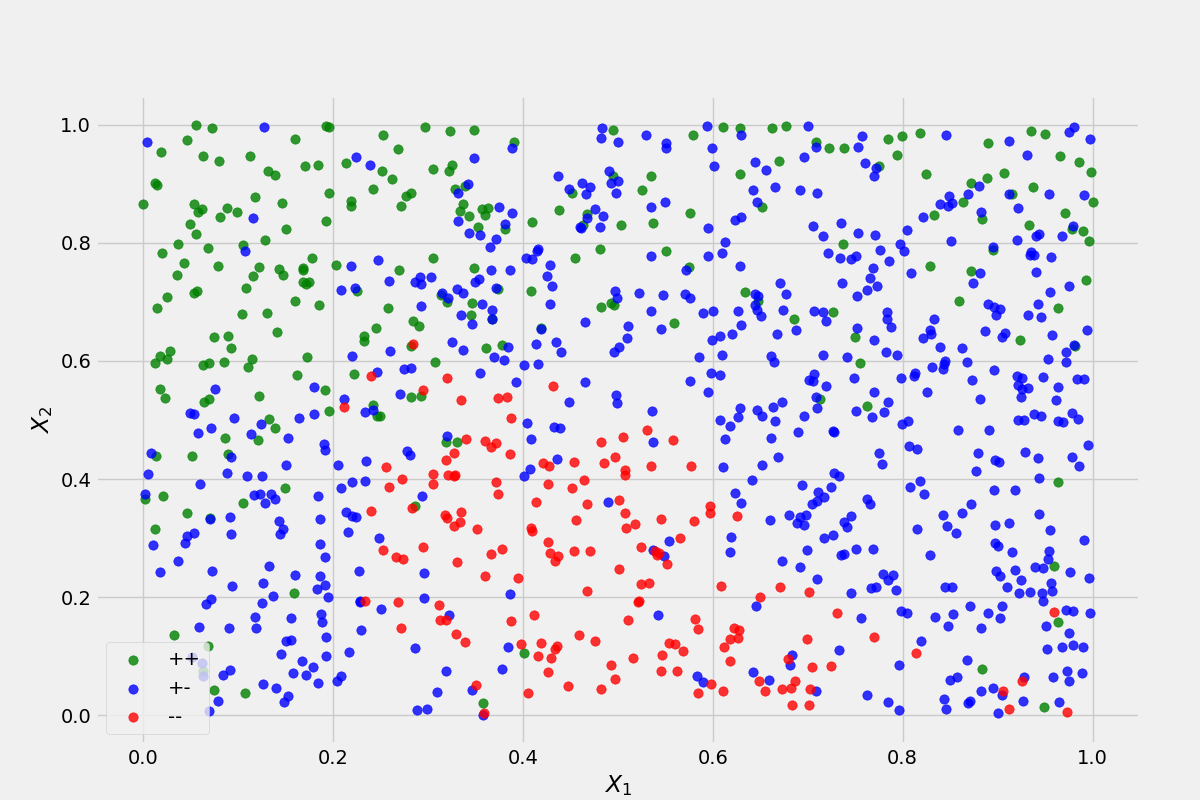
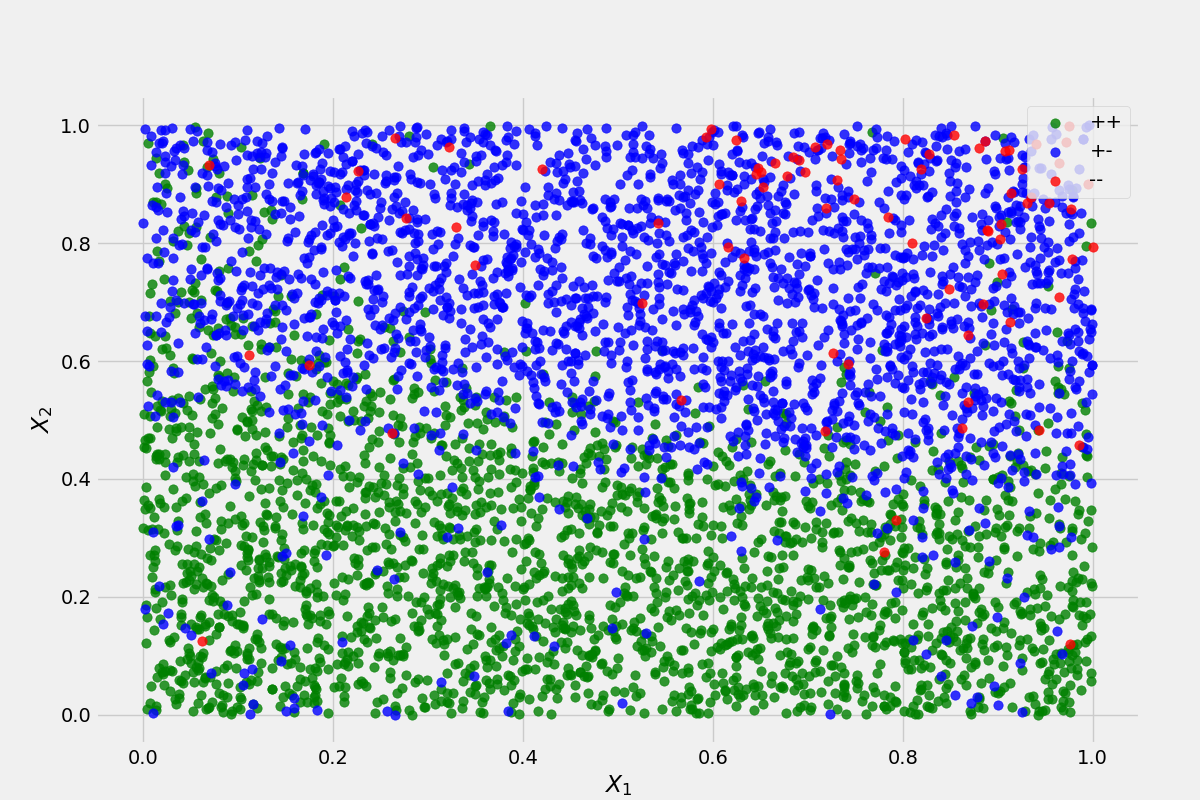
Fix linear tradeoff

diff --git a/data/dataset.py b/data/dataset.py
@@ -1,9 +1,10 @@
 import pandas as pd
 import numpy as np
 import seaborn as sns
+from scipy import stats
 from matplotlib import cm
 import matplotlib.pyplot as plt
-from matplotlib.colors import ListedColormap
+from matplotlib.colors import ListedColormap, BoundaryNorm
 from sklearn.preprocessing import OneHotEncoder
 from sklearn.model_selection import StratifiedKFold
 
@@ -70,22 +71,14 @@ class Dataset:
         self.mm_mask += (self.tao[:, 0] < 0) & (self.tao[:, 1] > 0)
         self.nn_mask = (self.tao[:, 0] < 0) & (self.tao[:, 1] < 0)
 
-        pp = np.where(self.pp_mask, 1, 0)
-        mm = np.where(self.mm_mask, 2, 0)
-        nn = np.where(self.nn_mask, 3, 0)
-        self.clusters = pp + mm + nn
-
-        top = cm.get_cmap('Greens', 128)
-        mid = cm.get_cmap('Blues', 128)
-        bottom = cm.get_cmap('Reds', 128)
-
-        newcolors = np.vstack((
-                            bottom(np.linspace(0, 1, 128)),
-                            mid(np.linspace(0, 1, 128)),
-                            top(np.linspace(0, 1, 128)),
-                            ))
-        self.cmap = ListedColormap(newcolors, name='OrangeBlue')
+        # pp = np.where(self.pp_mask, 1, 0)
+        # mm = np.where(self.mm_mask, 2, 0)
+        # nn = np.where(self.nn_mask, 3, 0)
+        # self.clusters = pp + mm + nn
+        self.clusters = self.get_hex_clusters(values=self.tao)
+        
         self.cmap = 'RdYlGn'
+        self.norm = BoundaryNorm(np.arange(0.5, 4, 1), plt.cm.get_cmap(self.cmap).N)
 
     def split(self, n_splits=5) -> List[Fold]:
         # create quantization
@@ -109,13 +102,28 @@ class Dataset:
         self.tradeoff = TradeoffEnum[self.tradeoff_type].value()
         return self.tradeoff.create_Y(self.X, self.n_responses)
 
+    def hexbin_truncate(self, x):
+        return stats.mode(x)[0].item()
+
+    def get_hex_clusters(self, values):
+        pp_mask = (values[:, 0] > 0) & (values[:, 1] > 0)
+        mm_mask = (values[:, 0] > 0) & (values[:, 1] < 0)
+        mm_mask += (values[:, 0] < 0) & (values[:, 1] > 0)
+        nn_mask = (values[:, 0] < 0) & (values[:, 1] < 0)
+
+        pp = np.where(pp_mask, 3, 0)
+        mm = np.where(mm_mask, 2, 0)
+        nn = np.where(nn_mask, 1, 0)
+
+        return pp + mm + nn
+
     def plot_effects(self, save_filename=None):
         alpha=0.2
         nrows = self.n_responses + 1
         ncols = 2
         fig, axs = plt.subplots(nrows=nrows, ncols=ncols, figsize=(12, 8))
         for i in range(nrows):
-            taos = []
+            hex_taos = []
             for j in range(ncols):
                 if i == nrows-1:
                     im = axs[i, j].hexbin(x=self.X[:, 0], 
@@ -136,13 +144,13 @@ class Dataset:
                     axs[i, j].set_ylabel(r'$X_2$')
                     fig.colorbar(im, ax=axs[i, j], label=fr'$\tau_{j}$')
                     hex_values = im.get_array().reshape(-1, 1)
-                    taos.append(hex_values)
+                    hex_taos.append(hex_values)
                     offsets = im.get_offsets()
                 else:
                     # sns.regplot(x=self.X[:, i], y=self.Y[:, j], ax=axs[i, j], scatter=False, label=f'Y_{j}_0')
                     # sns.regplot(x=self.X[:, i], y=self.Y[:, j+1], ax=axs[i, j], scatter=False, label=f'Y_{j}_1')
-                    axs[i, j].scatter(self.X[:, i], self.Y[:, j], alpha=alpha, label=fr'$Y_{j}^0$')
-                    axs[i, j].scatter(self.X[:, i], self.Y[:, j+1], alpha=alpha, label=fr'$Y_{j}^1$')
+                    axs[i, j].scatter(self.X[:, i], self.Y[:, 2*j], alpha=alpha, label=fr'$Y_{j}^0$')
+                    axs[i, j].scatter(self.X[:, i], self.Y[:, 2*j+1], alpha=alpha, label=fr'$Y_{j}^1$')
                     axs[i, j].set_xlabel(fr'$X_{i+1}$')
                     axs[i, j].set_ylabel(fr'$Y_{j}$')
                     axs[i, j].legend()
@@ -151,8 +159,8 @@ class Dataset:
 
         plt.savefig(f'{save_filename}.png')
     
+        # scatter clusters
         plt.figure(figsize=(12, 8))
-
         plt.scatter(self.X[:, 0][self.pp_mask], self.X[:, 1][self.pp_mask], s=45, alpha=0.8, c='g', label='++')
         plt.scatter(self.X[:, 0][self.mm_mask], self.X[:, 1][self.mm_mask], s=45, alpha=0.8, c='b', label='+-')
         plt.scatter(self.X[:, 0][self.nn_mask], self.X[:, 1][self.nn_mask], s=45, alpha=0.8, c='r', label='--')
@@ -161,18 +169,21 @@ class Dataset:
         plt.legend()
         plt.savefig(f'{save_filename}_clusters.png')
 
-    # def plot_clusters(self):
-    #     for j in range(0, ncols+1, 2):
-    #         tau = self.Y[:, j+1]-self.Y[:, j]
-    #     im = axs[i, axj].hexbin(x=self.X[:, 0], 
-    #                         y=self.X[:, 1], 
-    #                         C=tau, 
-    #                         gridsize=12, 
-    #                         cmap='coolwarm',
-    #                         vmin=tau.min(), 
-    #                         vmax=tau.max(), 
-    #                         clim=(tau.min(), tau.max())
-    #     )
+        # hexbin clusters
+        plt.figure(figsize=(12, 8))
+        plt.hexbin(x=offsets[:, 0],
+                    y=offsets[:, 1],
+                    # C=self.clusters,
+                    C=self.get_hex_clusters(values=np.concatenate(hex_taos, axis=1)),
+                    cmap=self.cmap,
+                    norm=self.norm,
+                    # reduce_C_function=self.hexbin_truncate,
+                    gridsize=12
+        )
+        cbar = plt.colorbar(ticks=np.arange(1, 4, 1))
+        cbar.ax.set_yticklabels(['--', '+-', '++'])
+        plt.savefig(f'{save_filename}_hexclusters.png')
+
 
 if __name__ == "__main__":
     dataset = Dataset(n_rows=5000, 

diff --git a/tradeoffs/linear.py b/tradeoffs/linear.py
@@ -14,21 +14,18 @@ class LinearTradeoff(Tradeoff):
         for x in X[:, :2].T:
             mu *= self.linear(x)
         
-        mu_0_0 = -mu + 0.7
-        mu_0_1 = mu - 0.7
-        self.mus += [mu_0_0, mu_0_1]
+        mu_0_0 = -mu + 0.3
+        mu_0_1 = mu - 0.3
         Y_0_0 = (mu_0_0 + np.random.normal(0, 0.1, X.shape[0])).reshape(-1, 1)
         Y_0_1 = (mu_0_1 + np.random.normal(0, 0.1, X.shape[0])).reshape(-1, 1)
 
         return np.concatenate([Y_0_0, Y_0_1], axis=1)
 
     def get_tradeoff_effect(self, X):
-        mu = 1
-        for x in X.T:
-            mu *= 1-self.linear(x)
+        mu = self.linear(X[:, 0]) * (1-self.linear(X[:, 1]))
         
-        mu_d_0 = mu - 0.7
-        mu_d_1 = -mu + 0.7
+        mu_d_0 = -mu + 0.3
+        mu_d_1 = mu - 0.3
         Y_d_0 = (mu_d_0 + np.random.normal(0, 0.1, X.shape[0])).reshape(-1, 1)
         Y_d_1 = (mu_d_1 + np.random.normal(0, 0.1, X.shape[0])).reshape(-1, 1)
 

diff --git a/tradeoffs/highly_non_linear.py b/tradeoffs/highly_non_linear.py
@@ -14,7 +14,7 @@ class HighlyNonLinearTradeoff(Tradeoff):
 
         # pick mean points
         centers = np.random.uniform(0.1, 0.9, size=(n_gaussians, X.shape[1])).round(1)
-        stds = np.random.uniform(0, 0.1, n_gaussians).round(2)
+        stds = np.random.uniform(0.1, 0.15, n_gaussians).round(2)
         orientation = np.random.choice([1, -1], size=n_gaussians)
         mu = np.zeros(X.shape[0])
         for i in range(n_gaussians):
